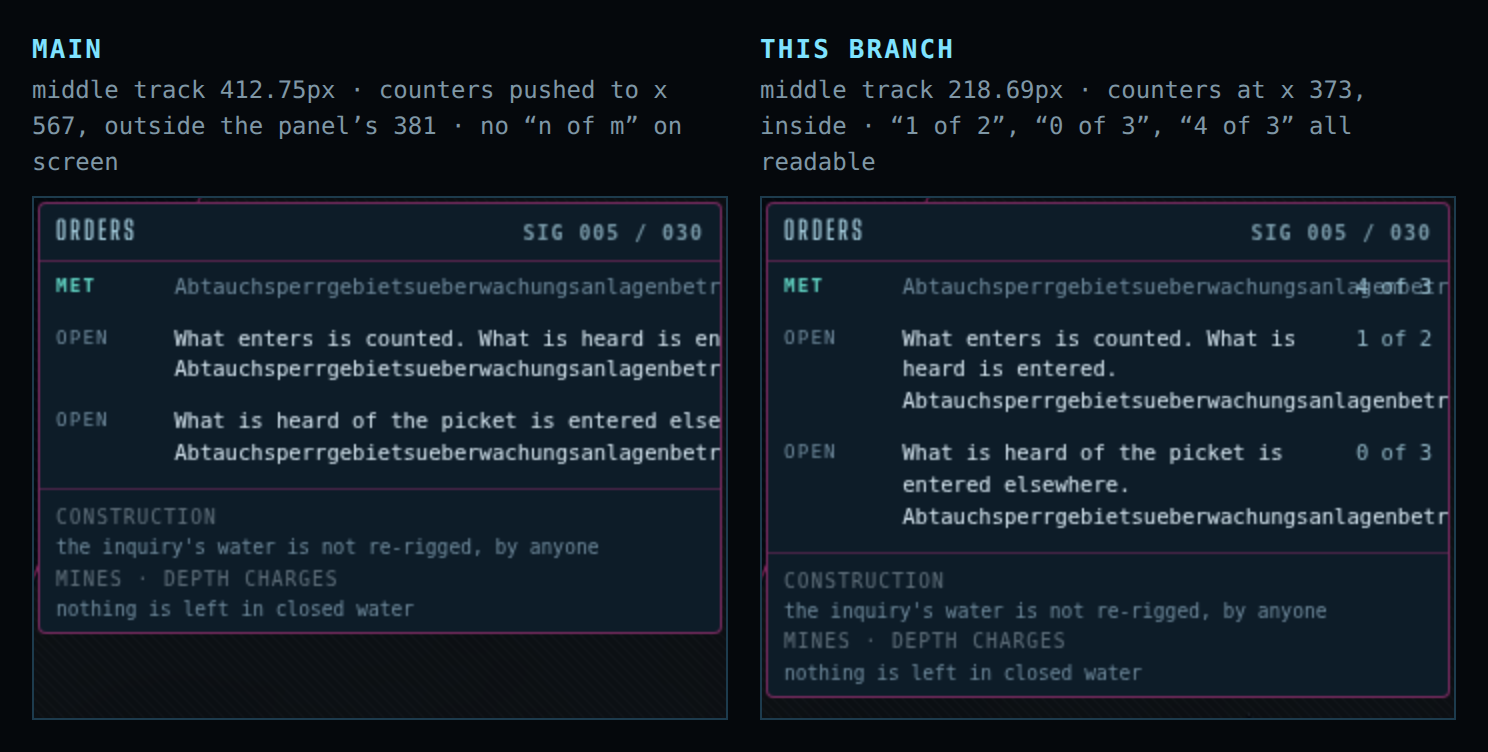
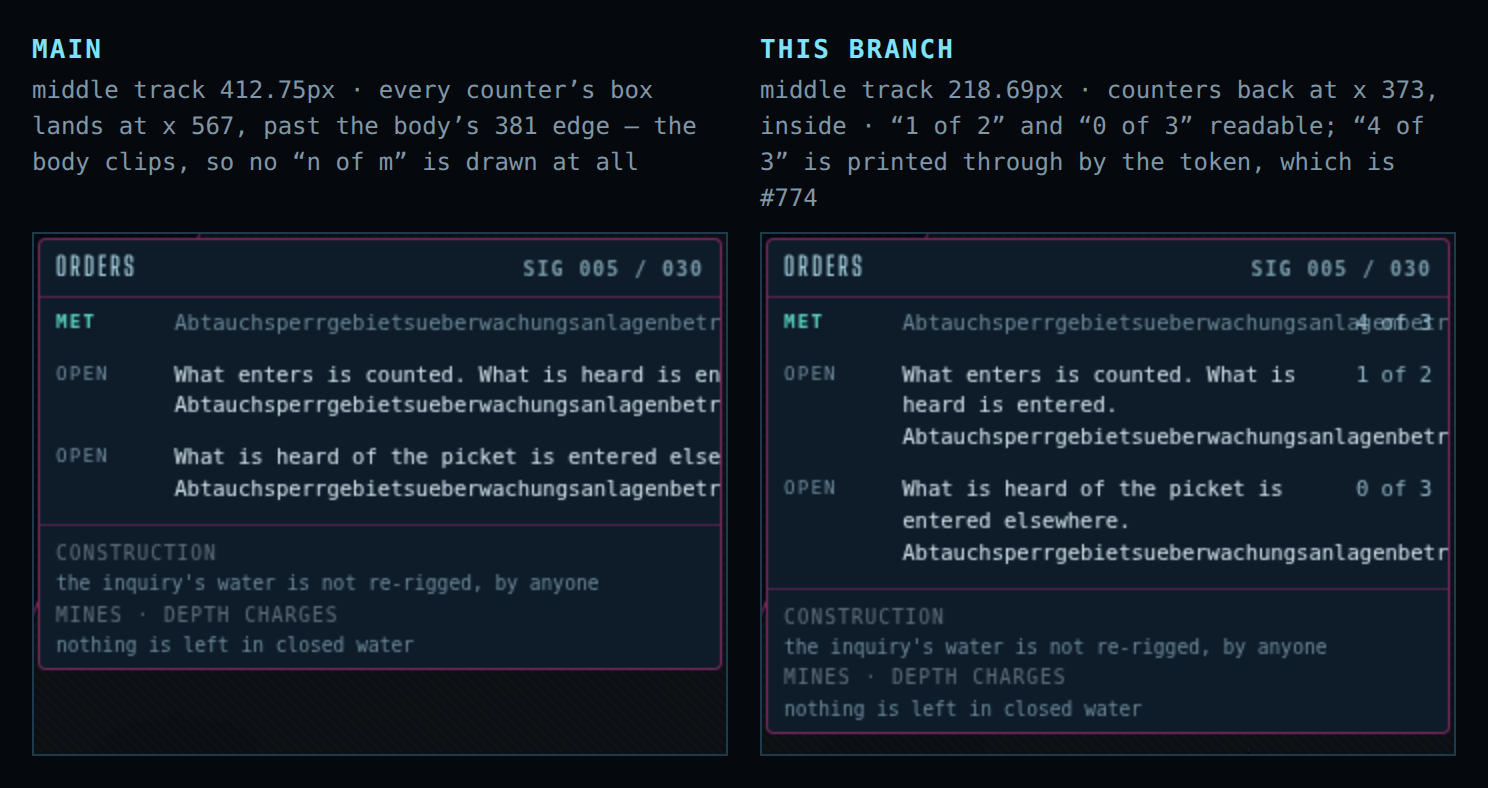
fix(ui): the counter is clipped away, not spilled — and say what the residual costs
Round 3, on a second fresh critic. The code is unchanged; all of this is prose
and evidence that overstated what was measured.

"Outside the panel rather than clipped at it" was false. `.objectives-body` is
`overflow-y: auto`, and an `overflow` that is `visible` on one axis computes to
`auto` on the other, so the body clips: the counter's layout box lands at x 567
but nothing is drawn there. The screenshot is what refutes it — the text stops
dead on the panel border. Corrected in the comment, invariant 33 and the test.

The residual was described as glyphs "spilling out of the cell", which does not
say where they go. They go over the progress counter, and the frame's own
caption claimed all three counters readable when `4 of 3` is printed through.
Caption regenerated to say so. Filed as #774, with §2 as the clause; the two
sibling rows are #773.

`!important` was filed under assumptions and throws on both paths.
`SELF_CONTAINED_AT_RULES` had been inserted between `parseCss` and its docblock.

Claude-Session: https://claude.ai/code/session_015EZKkkQaC6h3y1i9c1FN6p

Changed region(s): [[0.0, 0.0306, 0.9892, 0.9787], [0.0309, 0.9481, 0.4946, 0.9787], [0.5255, 0.5811, 0.5565, 0.6423]]

diff --git a/packages/frontend/test/support/cssBox.ts b/packages/frontend/test/support/cssBox.ts
@@ -33,11 +33,14 @@
  * - a rule sitting under a condition it cannot evaluate, which since #760 is
  *   **any** at-rule that is not a known self-contained one — `@media`,
  *   `@supports`, `@container`, `@layer`, `@scope` and anything nobody here has
- *   heard of alike (`boxRulesFor`).
+ *   heard of alike (`boxRulesFor`);
+ * - an `!important` anywhere in a value it reads, which is unmodelled and
+ *   throws wherever it appears — `lengthPx` on the box side, `floorOf` on the
+ *   track side.
  *
  * What it does **not** model and does **not** throw on — so these are the
- * assumptions rather than the refusals: inheritance, `!important`, and
- * specificity beyond source order. The last is the one to know about, because
+ * assumptions rather than the refusals: inheritance, and specificity beyond
+ * source order. The second is the one to know about, because
  * every rule it reads here is a bare class or a tag-and-class and those are
  * written in increasing specificity anyway (`.objectives-row` before
  * `p.objectives-row`); a stylesheet that put the tag rule first would be read
@@ -134,9 +137,17 @@ const NOT_AT_REST = new Set([
 export interface CssRule {
   selector: string;
   declarations: Array<[string, string]>;
-  /** The `@media`/`@supports` prelude this rule sits under, or null at top level. */
+  /** The at-rule prelude this rule sits under, or null at top level. */
   condition: string | null;
 }
+
+/**
+ * At-rules whose block is not a list of style rules, so skipping it drops
+ * nothing that could style an element. Named rather than inferred: everything
+ * else is treated as a condition, which is the failing-loud direction.
+ */
+const SELF_CONTAINED_AT_RULES =
+  /^@(keyframes|-\w+-keyframes|font-face|font-feature-values|font-palette-values|counter-style|property|page|view-transition)\b/;
 
 /**
  * Every rule in a stylesheet, flattened, with the condition it sits under.
@@ -146,14 +157,6 @@ export interface CssRule {
  * `@media` nests and a regex that pretends otherwise reads a media block's
  * closing brace as a selector.
  */
-/**
- * At-rules whose block is not a list of style rules, so skipping it drops
- * nothing that could style an element. Named rather than inferred: everything
- * else is treated as a condition, which is the failing-loud direction.
- */
-const SELF_CONTAINED_AT_RULES =
-  /^@(keyframes|-\w+-keyframes|font-face|font-feature-values|font-palette-values|counter-style|property|page|view-transition)\b/;
-
 export function parseCss(css: string): CssRule[] {
   const clean = css.replace(/\/\*[\s\S]*?\*\//g, '');
   const rules: CssRule[] = [];

diff --git a/packages/frontend/src/App.css b/packages/frontend/src/App.css
@@ -1704,19 +1704,25 @@
    columns to the right of the token with it. Driven on `attending-the-dome`
    with one long token in the text, the middle track resolves to 412.75px
    without these two declarations against 218.69px with them, and the progress
-   counter's right edge lands at x 567 against a panel edge of 381: the counter
-   is not clipped, it is outside the panel.
+   counter's *layout* box lands at x 567 against a panel edge of 381. It is
+   not drawn there: `.objectives-body` sets `overflow-y: auto`, and an
+   `overflow` that is `visible` on one axis computes to `auto` on the other,
+   so the body clips and the counter is simply absent. §2's own words for that
+   are that a scrollbar "makes the part that did not fit invisible rather than
+   absent"; this is the worse half.
 
    Two declarations, because either alone leaves the other free to push: the
    `minmax(0, …)` gives the *track* a floor, and `min-width: 0` gives the
    *items* in it one, a grid item's automatic minimum being min-content as
-   well. Neither stops the token's own glyphs spilling out of the cell they
-   sit in, and neither is meant to — how a mission's own word may be broken is
-   a wrapping decision and not this rule's to take.
+   well. What neither does is stop the token's own glyphs printing across the
+   cells beside it — in any row where the token shares a line with the counter,
+   it prints straight over it. That is a third axis, how a word may be broken,
+   and §2 is what it is owed against rather than taste; it is #774 and not this
+   rule's to close.
 
    It is the pair the contact log has carried since its own columns overran
    each other. `.mission-result-objective` and `.mission-log-row` are the same
-   shape without it, and were left alone as outside #760. */
+   shape without it — #773, left alone as outside #760. */
 .objectives-row > * {
   min-width: 0;
 }

diff --git a/packages/frontend/test/missionPanel.test.ts b/packages/frontend/test/missionPanel.test.ts
@@ -895,8 +895,9 @@ describe('the objectives panel: a row fits the panel that holds it', () => {
     //
     // The row's own box does not move — `width: 100%` and `border-box` pin it.
     // What moves is everything to the right of that track: in a live drive the
-    // progress counter leaves the panel entirely rather than being clipped at
-    // its edge.
+    // progress counter's layout box lands outside the panel body, which clips
+    // horizontally (`overflow-y: auto` computes the other axis to `auto`), so
+    // the counter is drawn nowhere at all.
     //
     // Which track to ask about is read off the stylesheet rather than assumed.
     // §10.5 puts the authored sentence and its gloss in one column, and an

diff --git a/docs/invariants.md b/docs/invariants.md
@@ -77,7 +77,7 @@ exactly this reason.
 | 30 | The two readouts the permanent strip may drop are measured against the row they are **drawn on**: the map name and the clock are gated on the first row's own right edge — the draw meter's last segment, not the `DRAW` label it runs past — so they yield rather than print over the stockpile row | [ui-ux.md](ui-ux.md) §13 (a 52 px strip holding two rows) and §2 (which readouts it carries — §2's own diagram draws them on one line, so the y the split happens at is `EchoRenderer.drawHud`'s rather than the doc's); #743. The rule read `exposureLabel` or `bandLabel`, both at y = 30, while everything it gates is at y = 10 — a row neither drop can collide with — so its answer carried no information about the row that could actually collide, and across §13's sweep it found room at every scale right through 200%. Silent in the way this list exists for: nothing throws, every gate stays green, and the failure is two numbers printed over each other at a UI scale §11 makes a correctness requirement rather than a preference. It survived because the second row is short exactly when the first is full, so no fixture at 100% shows it, and because the right edge that matters belongs to `Graphics` segments rather than to the `Text` beside them. Held over the *rendered* strip rather than over the predicate, and at a scale where the rows disagree: a rule reading the second row cannot tell the two frames of the first holder apart | `packages/frontend/test/rendererSmoke.test.ts` — `drops the clock on the row it is on, not the row below it`; `packages/frontend/test/rendererSmoke.test.ts` — `never prints the two droppable readouts over another number, across §11’s range` |
 | 31 | An objective row's **border box** is no wider than the panel body it sits in, in both shapes a row can take — so the progress counter in its third column is never drawn outside the panel | [ui-ux.md](ui-ux.md) §10.5, whose closing paragraph makes the counter content rather than decoration ("an objective may say *get both tenders out*"), and §11, which makes the 75–200% scale a correctness requirement; #752. `.objectives-row` set `width: 100%` beside `padding: 5px 8px` and no `box-sizing`, so the row's border box was the body's width plus 16 px. Silent in the way this list exists for, and for a reason worth writing down: a row that names a marker is a `button`, which the UA stylesheet already gives `border-box`, so **only the markerless `p` rows overflowed** — two shapes side by side in one panel, under identical author CSS, boxing differently. No test could see it either, because `react-test-renderer` lays nothing out and jsdom has no layout engine, which is why the holder reads the shipped stylesheet and does the box arithmetic instead of measuring. That reader is itself a thing that can quietly stop guarding — a rule it drops or a property it ignores reports a box narrower than the browser's — so it throws on whatever it cannot resolve, and its own failure behaviour is held by `packages/frontend/test/cssBox.test.ts`. Held over every row shape rather than one mission, and at three body widths, because the fault is a property of the rule and not of the viewport it was first seen at | `packages/frontend/test/missionPanel.test.ts` — `boxes every row shape inside the body, so no progress counter is cut`; `packages/frontend/test/missionPanel.test.ts` — `boxes the two host tags identically, which is what hid the fault`; `packages/frontend/test/missionPanel.test.ts` — `does not depend on the UI scale, at either end of §11’s 75–200%` |
 | 32 | The permanent strip's refusal sees a whole instrument rather than the half of it that is `Text`: the draw meter's segmented bar is inside the `DRAW` readout's own box, so a readout the bar prints through is refused a control exactly as one printed through by a number is | [ui-ux.md](ui-ux.md) §13 and [economy.md](economy.md) §2 — the draw is the one resource that is never banked and the bar is how the strip says so, which makes it half of that readout the way §3's meter is half of the SIG one; #757. `recordStrip` reads the `Text` objects the strip has just laid out, which is what stops it from keeping a second copy of the layout and is also why, on its own, it can only ever record a *number*. The bar is `Graphics` and is the last thing on the first row, so nothing recorded it and the comparison had a blind spot the length of it: the contact count kept a control over glyphs the segments print through — the surface wrong about a number rather than silent about it, which is the one thing §13 promises it will not be. Silent in the way this list exists for, and doubly so: nothing throws, every gate stays green, and the test that walks drawn glyphs cannot see it either, because ink is not a glyph | `packages/frontend/test/rendererSmoke.test.ts` — `refuses a control to a readout the draw meter’s bar prints through` |
-| 33 | An objective row's **grid** cannot be pushed wider than the row: the track carrying the mission's own sentence and its gloss has a floor that is a length rather than the contents of the track, and every child of the row can shrink to it | [ui-ux.md](ui-ux.md) §10.5, whose authored text is rendered verbatim and is therefore unbounded — a mission's words, not a template's — and §11, which makes the 75–200% scale a correctness requirement; #760. The row is the same one as row 31 and the fault is not: #752 fixed the row's **border box**, and the grid inside that box is a separate axis it never touched. `grid-template-columns` was `3.2rem 1fr auto` with no `min-width` on the children, and a `1fr` track's automatic minimum is min-content, so one long unbreakable token in an authored objective takes the middle track to that token's own width. **The row's border box never moves** — `width: 100%` and `border-box` pin it to the body — so the symptom is not a wider row but the columns to the right of that track being carried out of the panel with it. Driven on `attending-the-dome` at 1440×900, 100% UI scale, with one such token written into the objective text: the middle track resolves to 412.75px without the two declarations against 218.69px with them, and the progress counter's right edge sits at x 567 against a panel edge of 381 — outside the panel rather than clipped at it. Latent rather than observed, which is why it had to be driven with an injected token rather than found: the longest unbreakable run in any authored objective or gloss is 14 characters (`Undermarshalcy`), so every shipping row wraps with the whole track to spare. What the pair does **not** do is stop that token's own glyphs spilling out of the cell they sit in; how a mission's word may be broken is a wrapping decision and was left alone. `.contact-log-row` has carried the same two declarations since its own columns overran each other, which is what makes this a row that was missed rather than a rule nobody had; `.mission-result-objective` and `.mission-log-row` are the same shape still without it. Held over every row shape rather than one mission, and against the placement the stylesheet actually declares, so an edit moving the authored text to another column moves the check with it rather than leaving it guarding an empty one | `packages/frontend/test/missionPanel.test.ts` — `gives a mission’s own words a track that cannot widen the row`; `packages/frontend/test/missionPanel.test.ts` — `lets every child of a row shrink to its track, which the track alone does not`; `packages/frontend/test/cssBox.test.ts` — `reproduces #760 when the two declarations are taken away` |
+| 33 | An objective row's **grid** cannot be pushed wider than the row: the track carrying the mission's own sentence and its gloss has a floor that is a length rather than the contents of the track, and every child of the row can shrink to it | [ui-ux.md](ui-ux.md) §10.5, whose authored text is rendered verbatim and is therefore unbounded — a mission's words, not a template's — and §11, which makes the 75–200% scale a correctness requirement; #760. The row is the same one as row 31 and the fault is not: #752 fixed the row's **border box**, and the grid inside that box is a separate axis it never touched. `grid-template-columns` was `3.2rem 1fr auto` with no `min-width` on the children, and a `1fr` track's automatic minimum is min-content, so one long unbreakable token in an authored objective takes the middle track to that token's own width. **The row's border box never moves** — `width: 100%` and `border-box` pin it to the body — so the symptom is not a wider row but the columns to the right of that track being carried out of the panel with it. Driven on `attending-the-dome` at 1440×900, 100% UI scale, with one such token written into the objective text: the middle track resolves to 412.75px without the two declarations against 218.69px with them, and the progress counter's *layout* box sits at x 567 against a panel edge of 381. It is not drawn there: `.objectives-body` sets `overflow-y: auto`, and an `overflow` that is `visible` on one axis computes to `auto` on the other, so the body clips and the counter is **absent** rather than spilled — which is row 31's "cut every `n of m`" reached by the other axis. Latent rather than observed, which is why it had to be driven with an injected token rather than found: the longest unbreakable run in any authored objective or gloss is 14 characters (`Undermarshalcy`), so every shipping row wraps with the whole track to spare. What the pair does **not** do is stop that token's own glyphs printing across the cells beside it: the ink runs to about x 521, over the whole of the counter's column, so in any row where the token shares a line with the counter it prints straight over it. That is a third axis — how a word may be broken — owed against [ui-ux.md](ui-ux.md) §2 rather than against taste, and it is #774. `.contact-log-row` has carried the same two declarations since its own columns overran each other, which is what makes this a row that was missed rather than a rule nobody had; `.mission-result-objective` and `.mission-log-row` are the same shape still without it, which is #773. Held over every row shape rather than one mission, and against the placement the stylesheet actually declares, so an edit moving the authored text to another column moves the check with it rather than leaving it guarding an empty one | `packages/frontend/test/missionPanel.test.ts` — `gives a mission’s own words a track that cannot widen the row`; `packages/frontend/test/missionPanel.test.ts` — `lets every child of a row shrink to its track, which the track alone does not`; `packages/frontend/test/cssBox.test.ts` — `reproduces #760 when the two declarations are taken away` |
 
 ## Why a gate, and what it does not do
 
